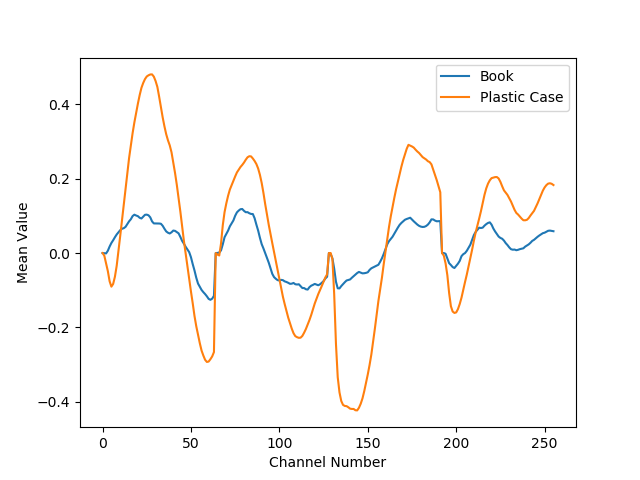
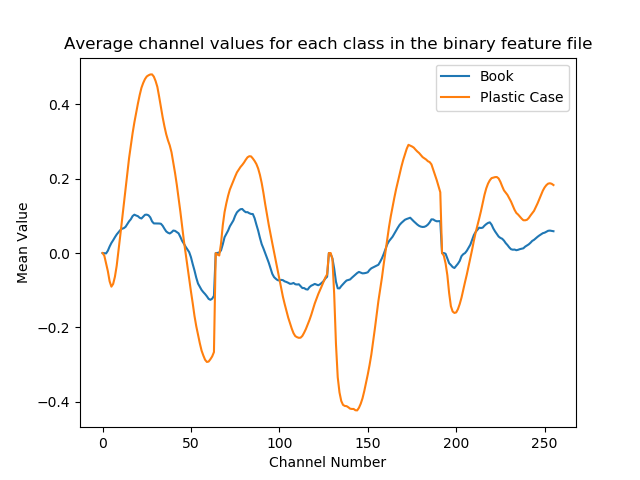
altered graphs and outputs

Changed region(s): [[0.0938, 0.0625, 0.9375, 0.125]]

diff --git a/main.py b/main.py
@@ -76,7 +76,7 @@ def train_binary_nn(X, y):
 
 
 def train_multiclass_nn(X, y):
-    layer_sizes = [1, 2, 5, 10, 20, 50, 100, 150, 200, 500, 1000]
+    layer_sizes = [1, 2, 5, 10, 20, 50, 100, 150, 200, 500]
     learning_inits = [1, 0.5, 0.2, 0.1, 0.05, 0.01, 0.001]
     scores = []
     sizes_to_plot = []
@@ -109,7 +109,6 @@ def train_multiclass_nn(X, y):
     return best_clf
 
 
-
 def nn_predict(clf, to_predict):
     predictions = clf.predict(to_predict)
     print('NN Predicted:\n{}'.format(predictions))
@@ -123,9 +122,11 @@ def score_classifier(clf, X, y):
 
 
 def cross_val_score_classifier(clf, X, y):
-    scores = cross_val_score(clf, X, y, cv=5)
+    scores = cross_val_score(clf, X, y, cv=10)
+    print('All scores:')
     print(scores)
     average = scores.mean()
+    print('Average score:')
     print(average)
     return average
 
@@ -139,16 +140,23 @@ if __name__ == "__main__":
     print('============================================')
     print('Training SVM...')
     bin_svc_clf = train_binary_svc(X, y)
+
+    print('============================================')
     print('Scoring SVM...')
+    print('Total score on trained data:')
     score_classifier(bin_svc_clf, X, y)
+    print('Cross validated score of the classifier:')
     cross_val_score_classifier(bin_svc_clf, X, y)
-    svc_predict(bin_svc_clf, to_predict)
 
     print('============================================')
     print('Training NN...')
     bin_nn_clf = train_binary_nn(X, y)
+
+    print('============================================')
     print('Scoring NN...')
+    print('Total score on trained data:')
     score_classifier(bin_nn_clf, X, y)
+    print('Cross validated score of the classifier:')
     cross_val_score_classifier(bin_nn_clf, X, y)
 
     print('============================================')
@@ -166,16 +174,23 @@ if __name__ == "__main__":
     print('============================================')
     print('Training SVM...')
     mul_svc_clf = train_multiclass_svc(X, y)
-    print('Scoring SVM...')
-    score_classifier(mul_svc_clf, X, y)
-    cross_val_score_classifier(mul_svc_clf, X, y)
 
+    print('============================================')
+    print('Scoring SVM...')
+    print('Total score on trained data:')
+    score_classifier(mul_svc_clf, X, y)
+    print('Cross validated score of the classifier:')
+    cross_val_score_classifier(mul_svc_clf, X, y)
 
     print('============================================')
     print('Training NN...')
     mul_nn_clf = train_multiclass_nn(X, y)
+
+    print('============================================')
     print('Scoring NN...')
+    print('Total score on trained data:')
     score_classifier(mul_nn_clf, X, y)
+    print('Cross validated score of the classifier:')
     cross_val_score_classifier(mul_nn_clf, X, y)
 
     print('============================================')

diff --git a/multiclass_visualiser.py b/multiclass_visualiser.py
@@ -44,6 +44,7 @@ if __name__ == '__main__':
         class_4_averages.append(current_c4_average/40)
         class_5_averages.append(current_c5_average/40)
 
+    plt.title('Average channel values for each class in the mutliclass feature file')
     l1, = plt.plot(class_1_averages, label='Air')
     l2, = plt.plot(class_2_averages, label='Book')
     l3, = plt.plot(class_3_averages, label='Hand')

diff --git a/binary_visualiser.py b/binary_visualiser.py
@@ -28,6 +28,7 @@ if __name__ == '__main__':
         class_1_averages.append(current_c1_average/40)
         class_2_averages.append(current_c2_average/40)
 
+    plt.title('Average channel values for each class in the binary feature file')
     l1, = plt.plot(class_1_averages, label='Book')
     l2, = plt.plot(class_2_averages, label='Plastic Case')
     plt.legend(handles=[l1, l2])
